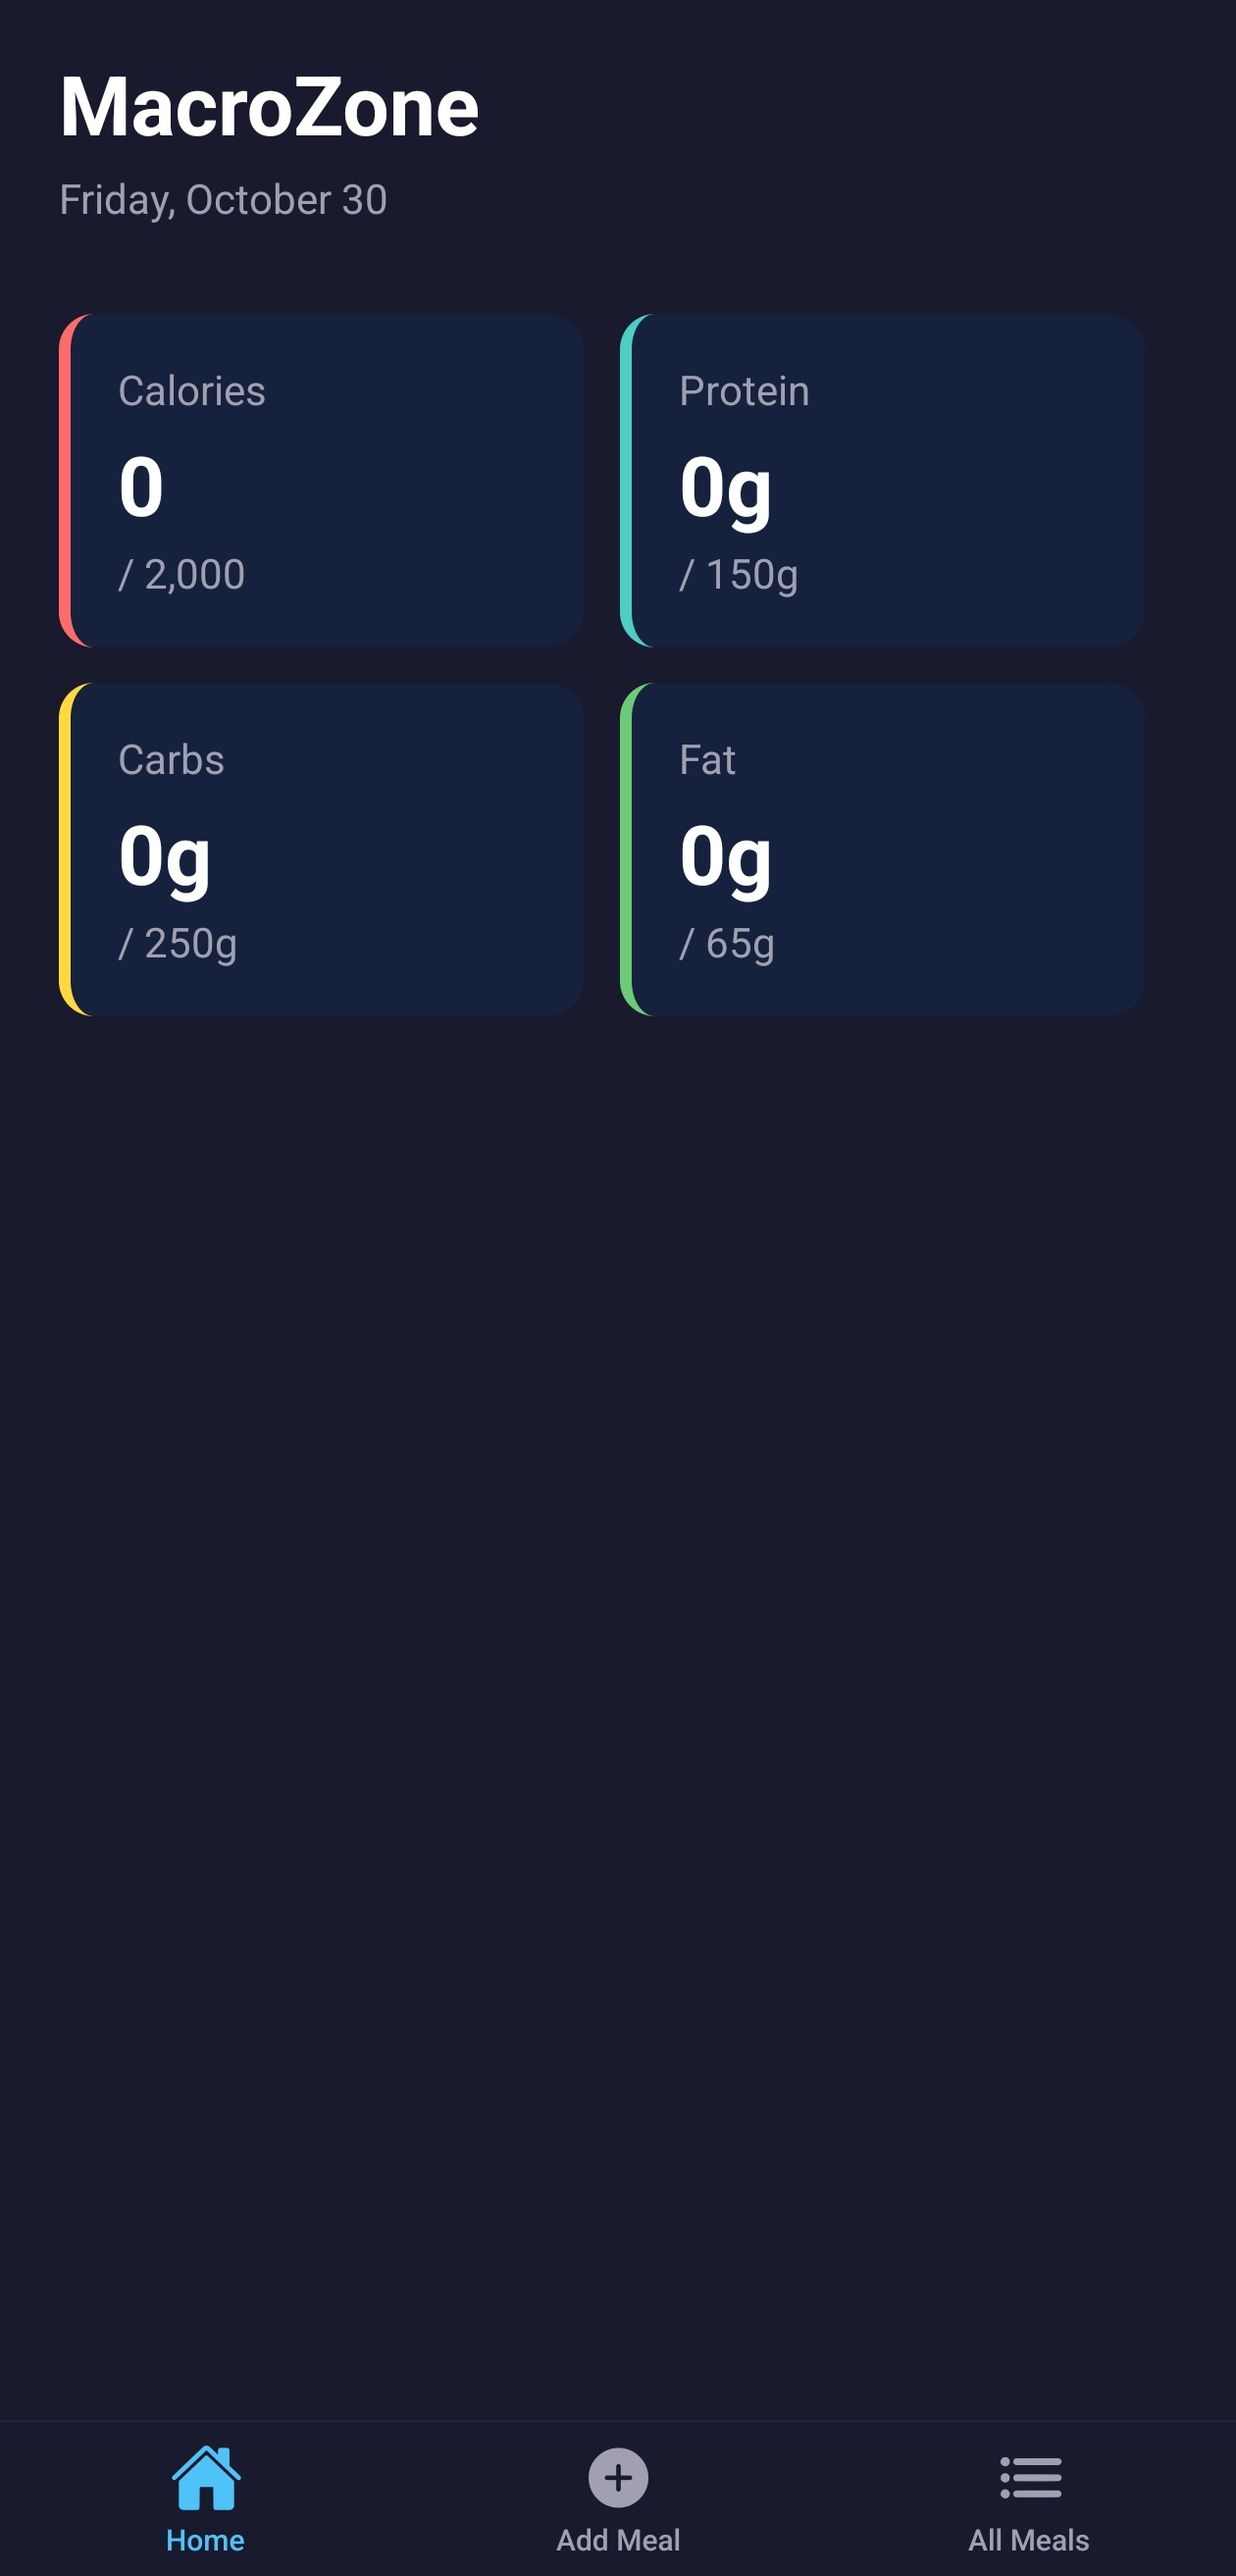
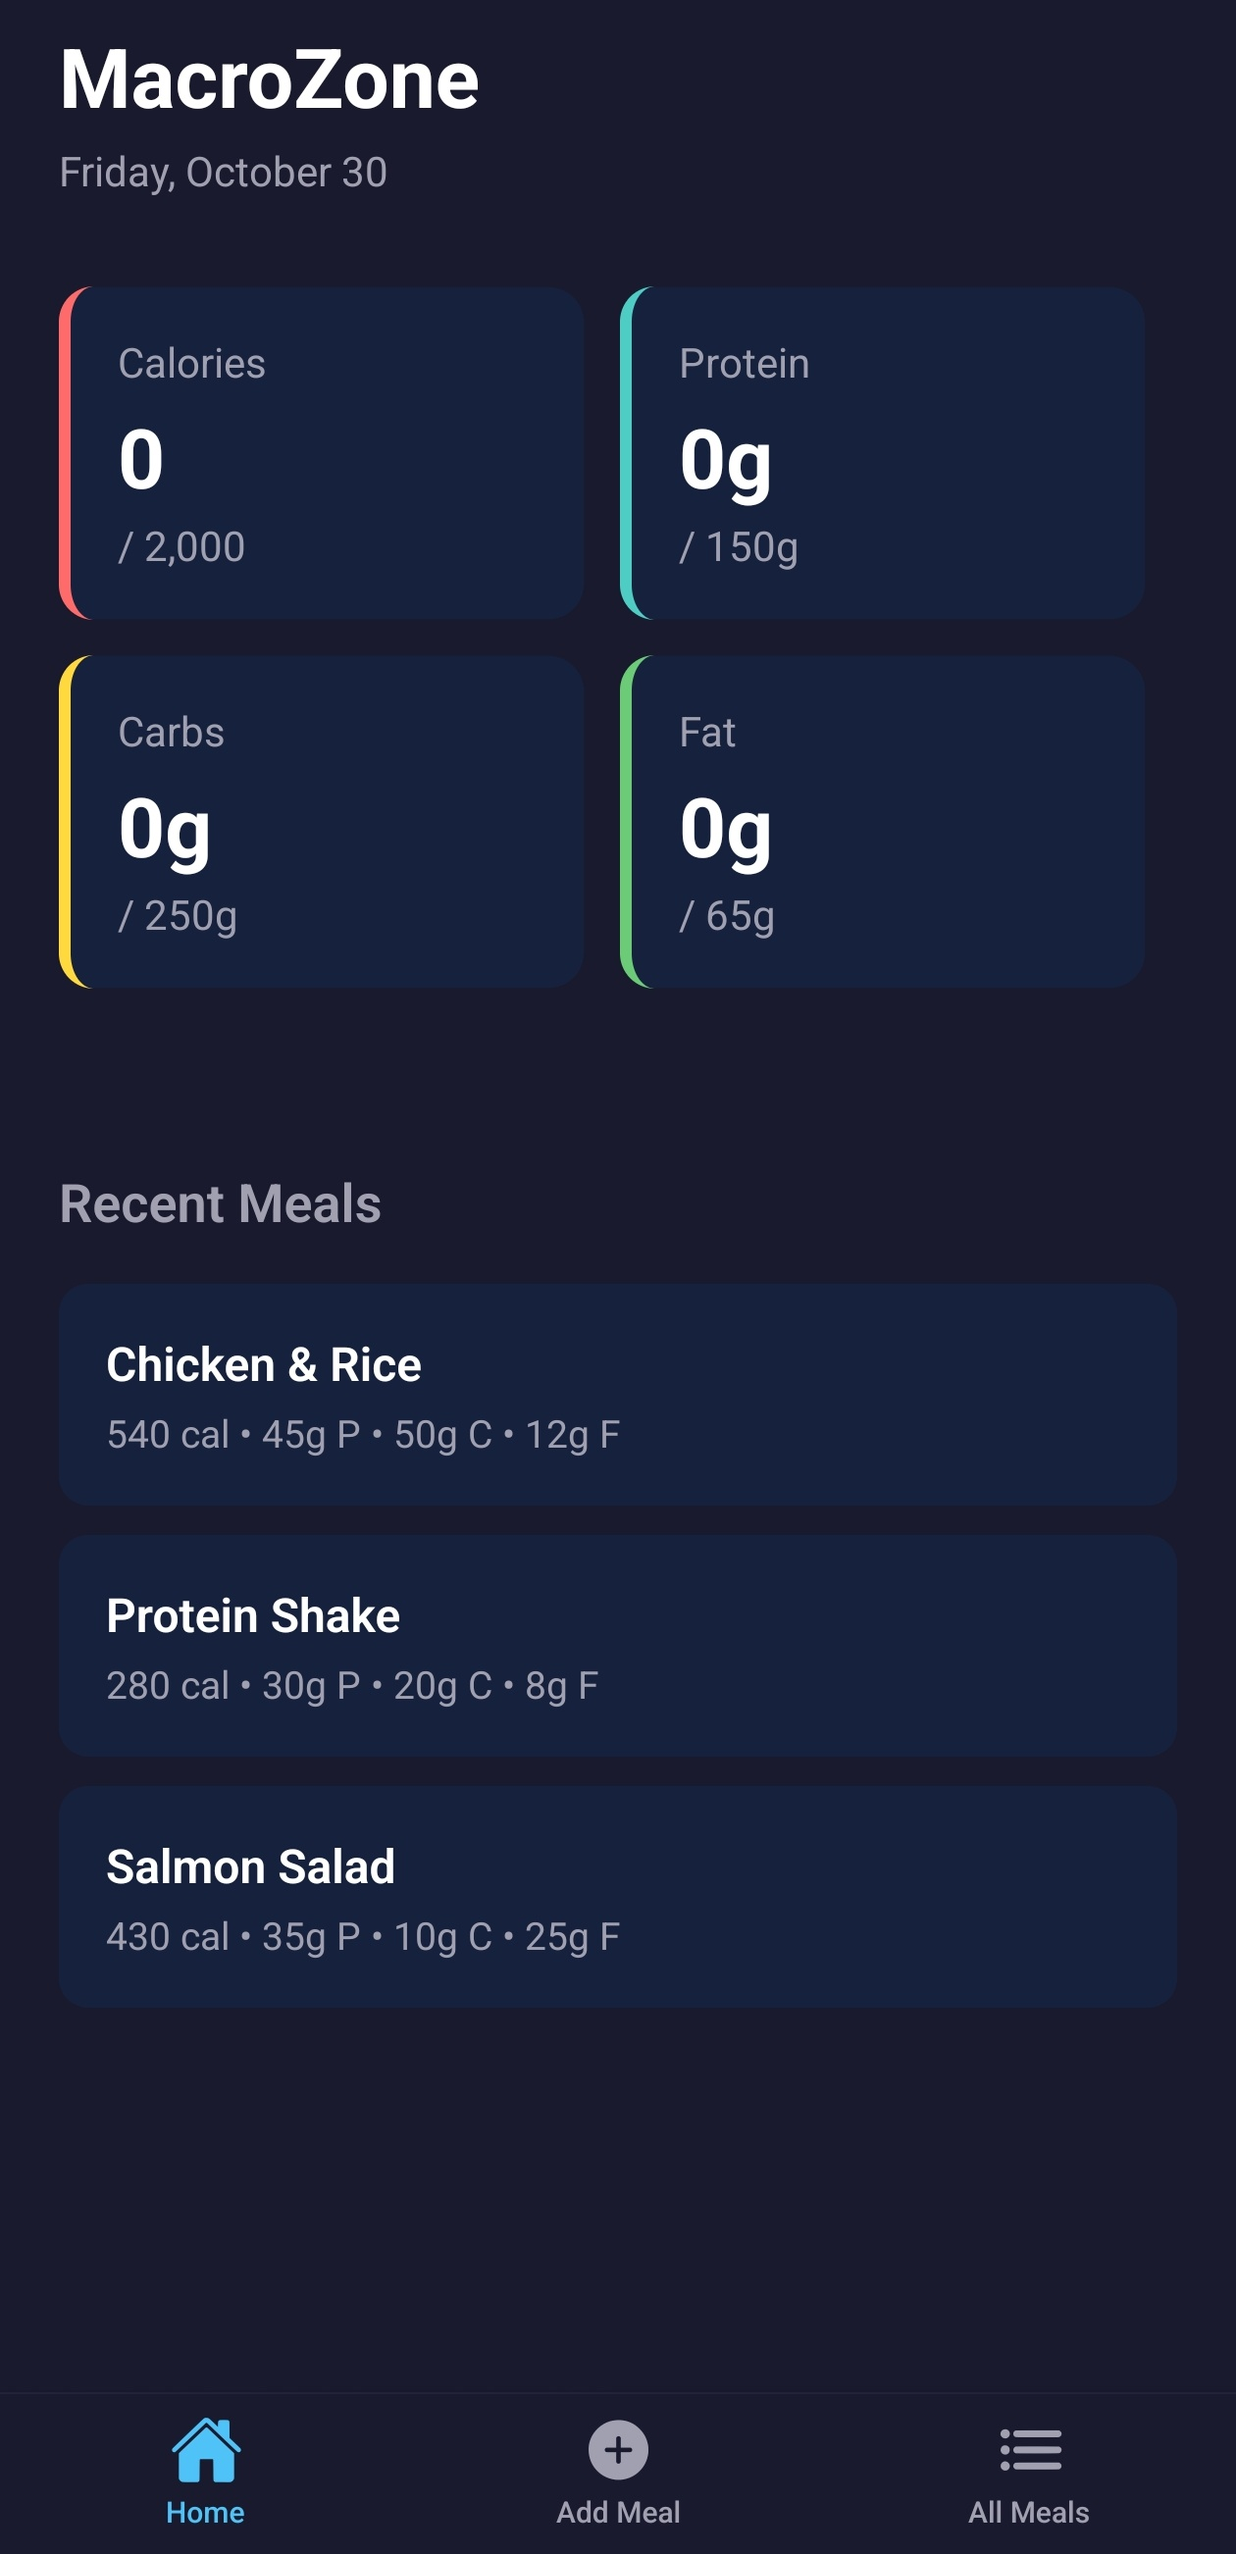
Component : RecentMeals Added

diff --git a/src/components/RecentMeals.tsx b/src/components/RecentMeals.tsx
@@ -1,0 +1,32 @@
+import { StyleSheet, Text, View } from "react-native";
+import { globalStyles } from "@/styles/global";
+import MealItem from "./MealItem";
+
+export default function RecentMeals() {
+  return (
+    <View style={{ marginTop: 30 }}>
+      <Text style={globalStyles.sectionTitle}>Recent Meals</Text>
+      <MealItem
+        name="Chicken & Rice"
+        calories={540}
+        protein={45}
+        carbs={50}
+        fat={12}
+      />
+      <MealItem
+        name="Protein Shake"
+        calories={280}
+        protein={30}
+        carbs={20}
+        fat={8}
+      />
+      <MealItem
+        name="Salmon Salad"
+        calories={430}
+        protein={35}
+        carbs={10}
+        fat={25}
+      />
+    </View>
+  );
+}

diff --git a/src/app/(tabs)/index.tsx b/src/app/(tabs)/index.tsx
@@ -1,5 +1,6 @@
 import HomeHeader from "@/components/HomeHeader";
 import MacroGrid from "@/components/MacroGrid";
+import RecentMeals from "@/components/RecentMeals";
 import { globalStyles } from "@/styles/global";
 import { ScrollView, Text } from "react-native";
 
@@ -9,6 +10,7 @@ export default function HomeScreen() {
       <Text style={globalStyles.title}>MacroZone</Text>
       <HomeHeader />
       <MacroGrid />
+      <RecentMeals />
     </ScrollView>
   );
 }

diff --git a/README.md b/README.md
@@ -50,16 +50,16 @@ How to track progress: each step below the current one is wrapped in its own `<!
 
 - [x] 26. [Create The Tab Layout](https://github.com/shahriarabiddut/macrozone-react-native-app#26-create-the-tab-layout)
 - [x] 27. [Update The Root Layout](https://github.com/shahriarabiddut/macrozone-react-native-app#27-update-the-root-layout)
-- [x] 28. [Macro Card Component](https://github.com/shahriarabiddut/macrozone-react-native-app#28-macro-card-component) ← **Start**
+- [x] 28. [Macro Card Component](https://github.com/shahriarabiddut/macrozone-react-native-app#28-macro-card-component)
 - [x] 29. [Macro Grid Component](https://github.com/shahriarabiddut/macrozone-react-native-app#29-macro-grid-component)
-- [x] 30. [Add Macro Grid To Home Screen](https://github.com/shahriarabiddut/macrozone-react-native-app#30-add-macro-grid-to-home-screen) ← **End**
-- [ ] 31. Meal Item Component ← **next**
-- [ ] 32. Recent Meals Component
-- [ ] 33. Add Recent Meals To Home Screen
+- [x] 30. [Add Macro Grid To Home Screen](https://github.com/shahriarabiddut/macrozone-react-native-app#30-add-macro-grid-to-home-screen)
+- [x] 31. [Meal Item Component](https://github.com/shahriarabiddut/macrozone-react-native-app#31-meal-item-component) ← **Start**
+- [x] 32. [Recent Meals Component](https://github.com/shahriarabiddut/macrozone-react-native-app#32-recent-meals-component)
+- [x] 33. [Add Recent Meals To Home Screen](https://github.com/shahriarabiddut/macrozone-react-native-app#33-add-recent-meals-to-home-screen) ← **End**
 
 ### 💾 Data Management
 
-- [ ] 34. Add Meal Form
+- [ ] 34. Add Meal Form ← **next**
 - [ ] 35. AsyncStorage
 - [ ] 36. Quick AsyncStorage Example (don't add to project)
 - [ ] 37. Storage Handler
@@ -804,9 +804,6 @@ export default function HomeScreen() {
 
 Now you should see the 2x2 grid of macro cards on the home screen.
 
-<!-- ============================ NEXT STEPS (COMMENTED OUT) ============================ -->
-
-<!--
 ## 31. Meal Item Component
 
 Let's also create a component for displaying recent meals on the home screen. Let's start with the meal item component that will be displayed from the recent meals list. Create `src/components/MealItem.tsx` and add the following code:
@@ -860,9 +857,7 @@ const styles = StyleSheet.create({
 ```
 
 This component takes in the meal name and its macros and displays them in a styled container.
--->
 
-<!--
 ## 32. Recent Meals Component
 
 Now create a component that will display a list of recent meals. Create `src/components/RecentMeals.tsx` and add the following code:
@@ -901,9 +896,7 @@ export default function RecentMeals() {
   );
 }
 ```
--->
 
-<!--
 ## 33. Add Recent Meals To Home Screen
 
 Finally, let's add the `RecentMeals` component to the home screen below the macro grid. Open `src/app/(tabs)/index.tsx` and update to the following:
@@ -928,7 +921,8 @@ export default function HomeScreen() {
 ```
 
 You should now see the recent meals section below the macro grid on the home screen.
--->
+
+<!-- ============================ NEXT STEPS (COMMENTED OUT) ============================ -->
 
 <!--
 ## 34. Add Meal Form
